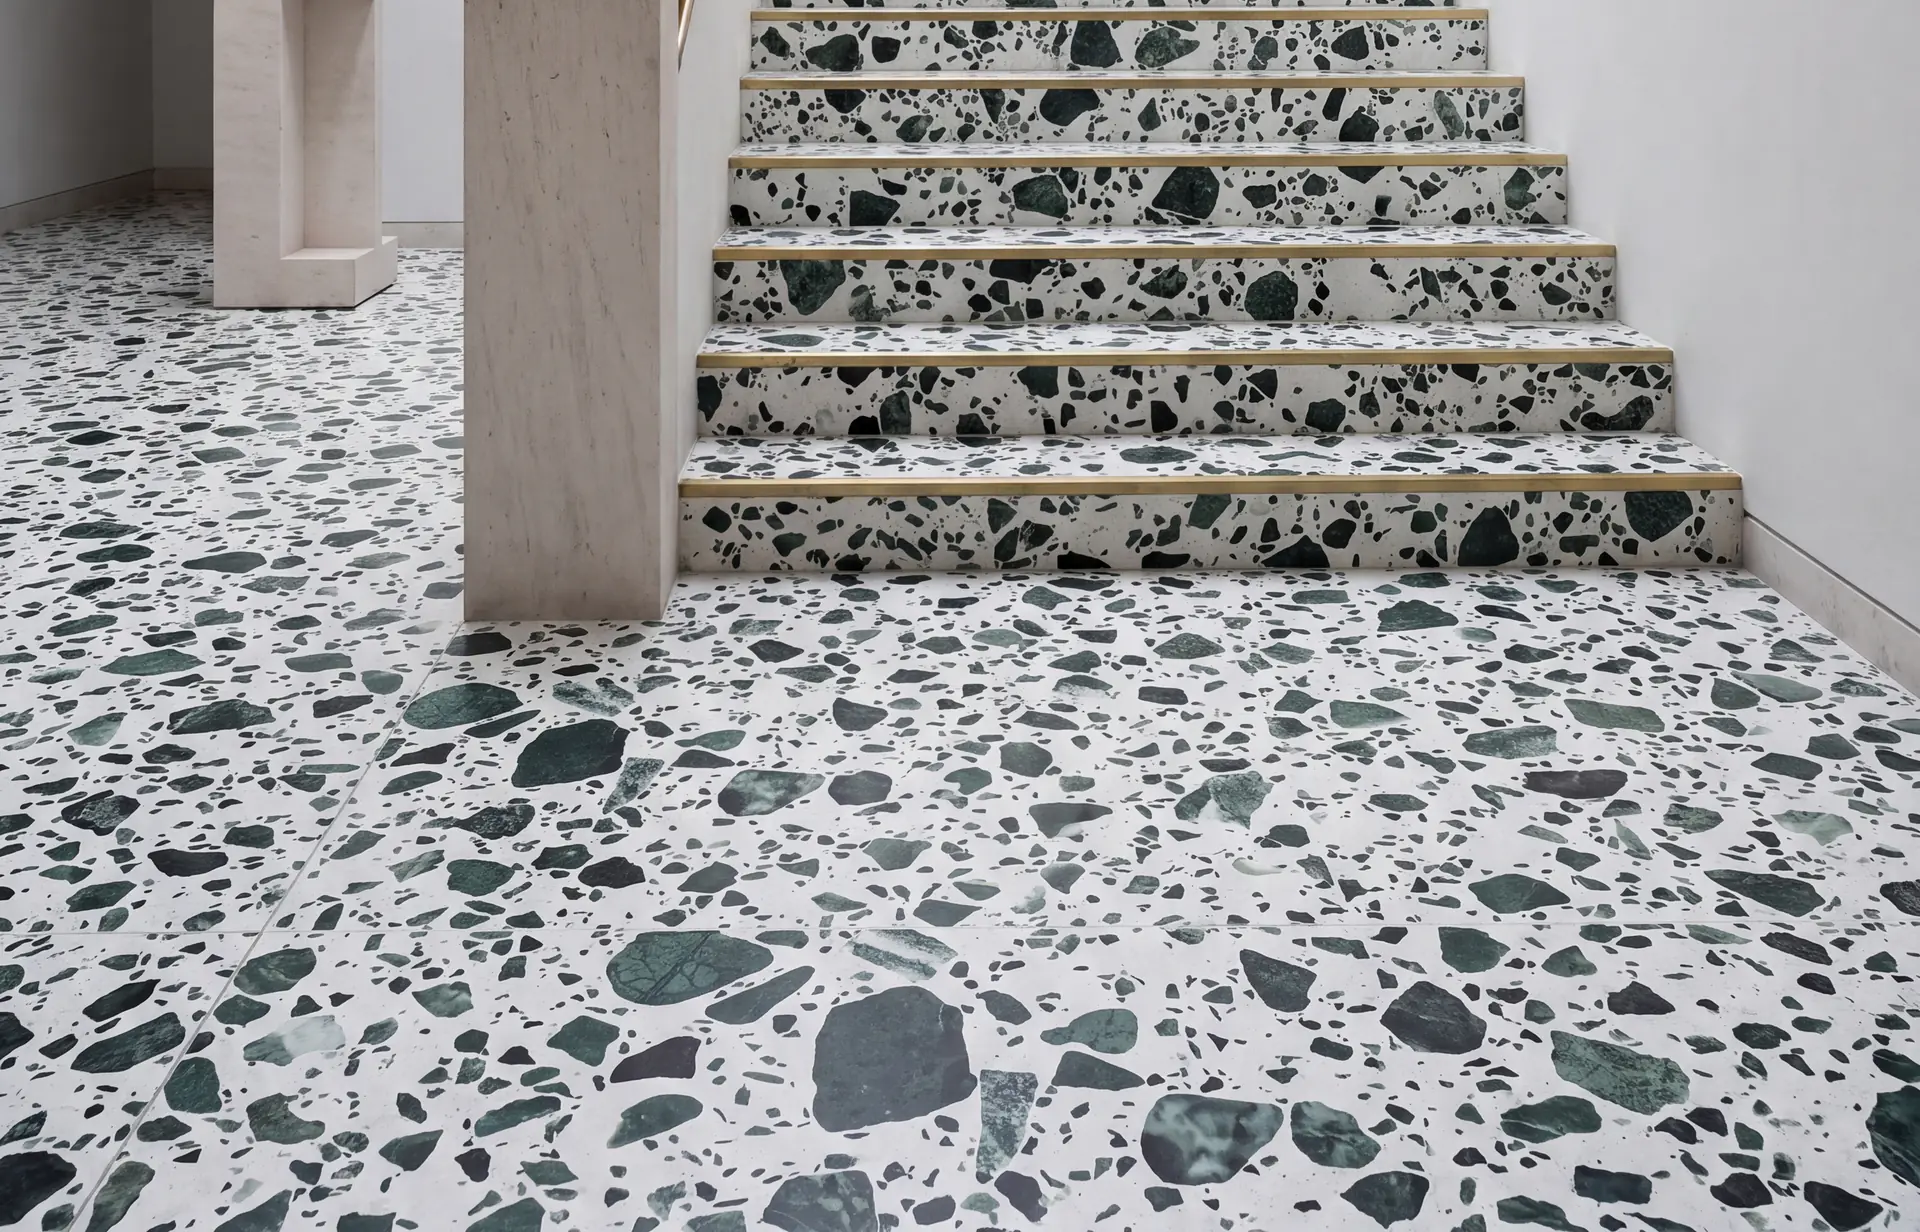
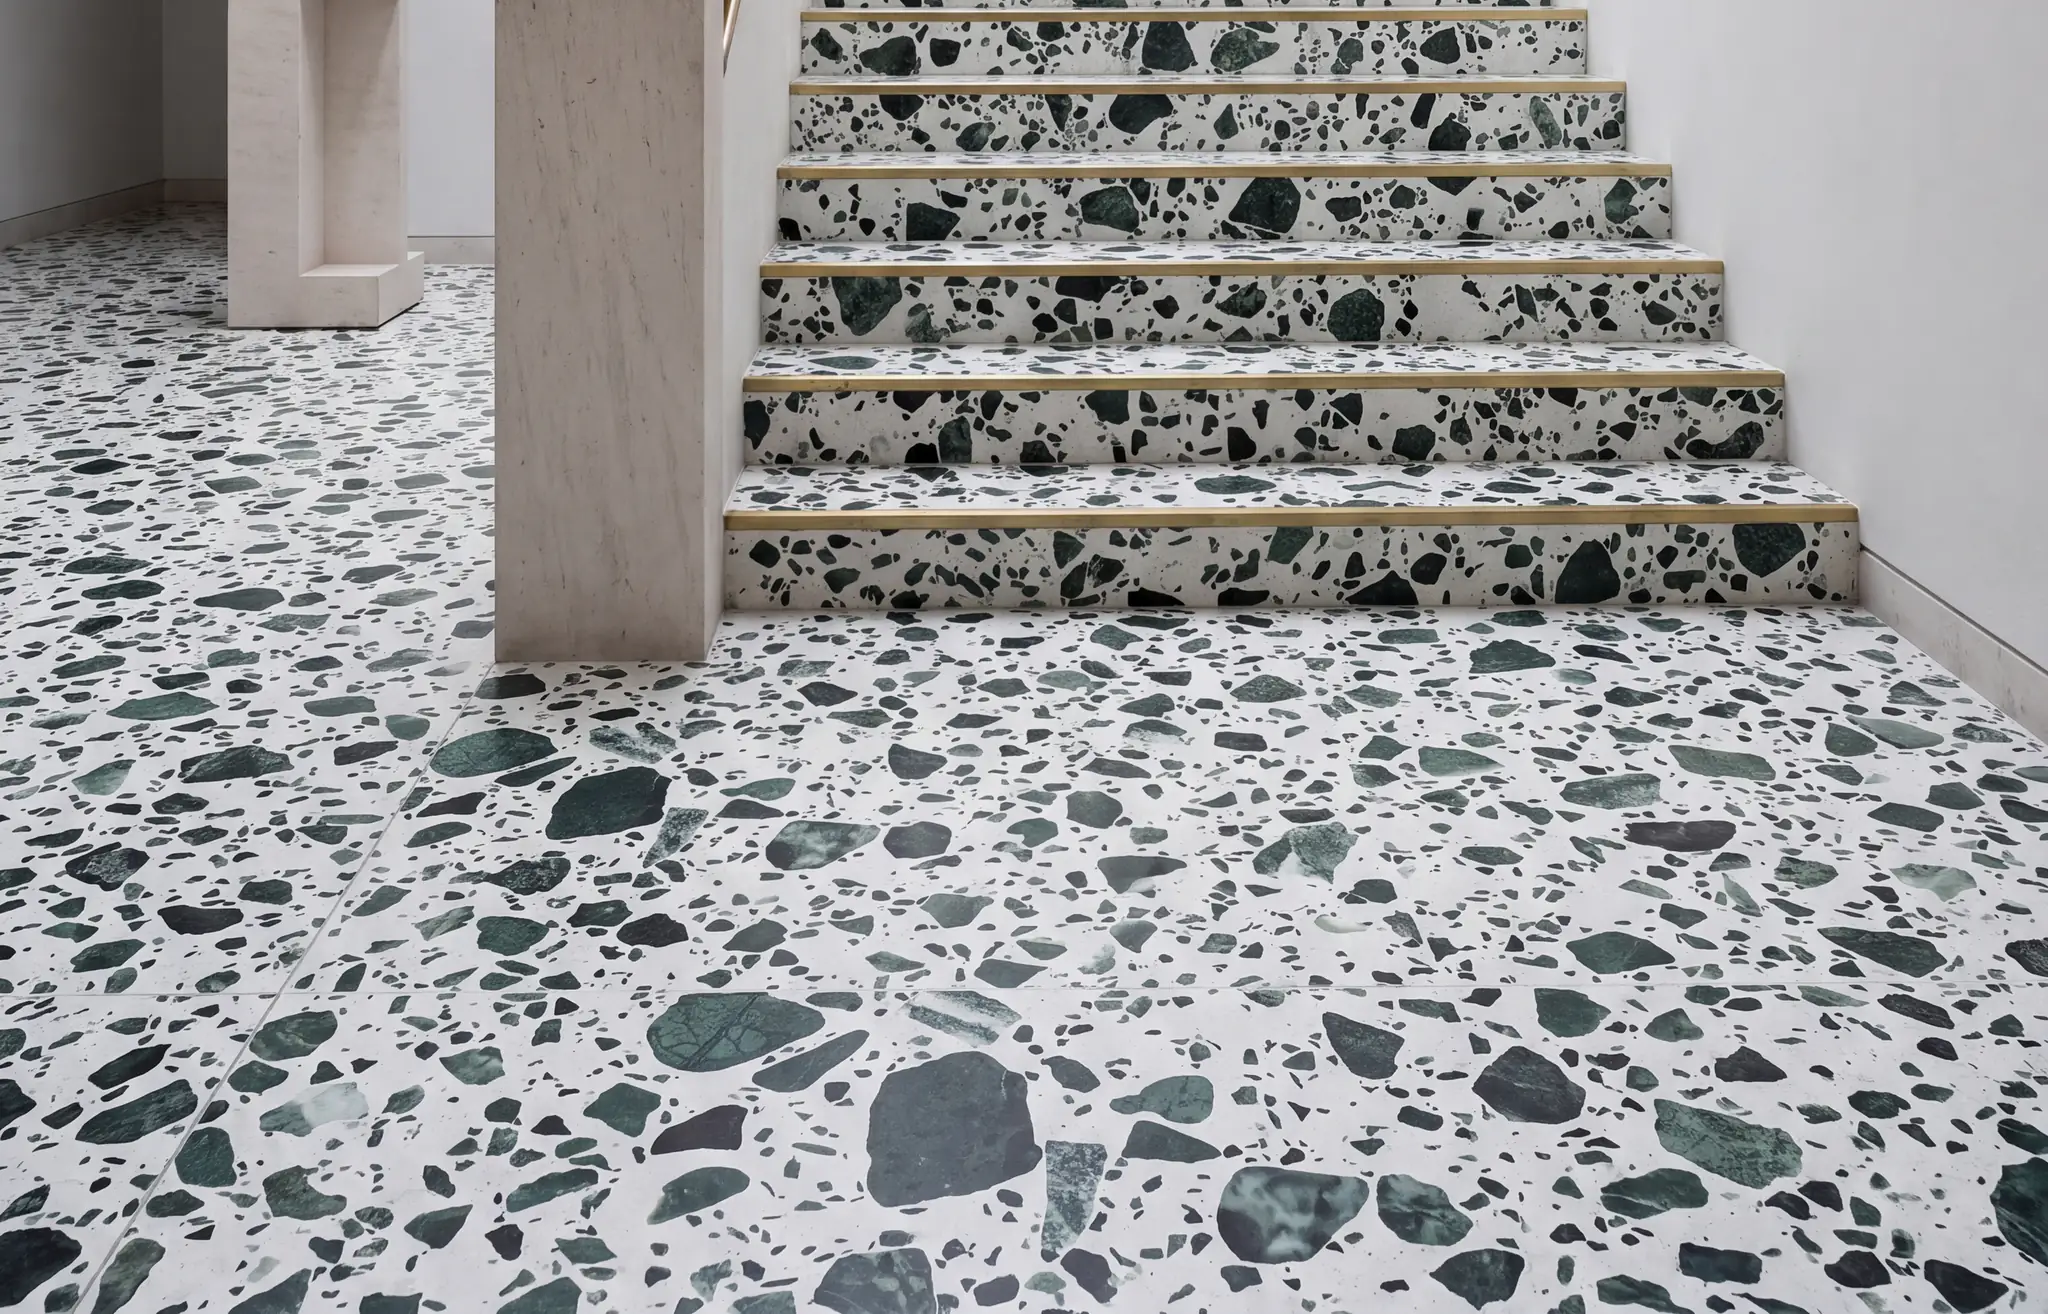
Home: generated 4K ball macros, bigger scenes, Al Sajaa map card
The balls were upscaling the catalogue swatch strips (some only 280px
tall) - each featured shade now gets a generated 4K square macro,
faithful to its swatch reference, cut to a 512px ball derivative
(11-73KB). Scenes rebuilt at 2048x1314 to match Next's srcset bucket at
retina. Two more NSFW false positives on plain slab prompts - reworded
as catalogue photography.

Map card corrections: the location is Al Sajaa, Sharjah (9M62+45M, Al
Jlail - the address already published on the legal pages), coordinates
decoded from the plus code, and siteConfig.address now carries the real
NAP for the org JSON-LD. Second activation of the card (after the first
expands it) opens Google Maps directions from the visitor's current
location to the plus code; the hover hint switches to Click for
directions.

diff --git a/src/components/ui/expand-map.tsx b/src/components/ui/expand-map.tsx
@@ -16,8 +16,10 @@ import { EASE, DURATION } from "@/lib/motion";
 /**
  * LocationMap - the expanding map card (adapted 2026-08-17 from an
  * owner-supplied reference component). Collapsed it is a small card with
- * the location name; a click springs it open into a stylised street map
- * with a pin. Cursor tilt on fine pointers.
+ * the location name; the FIRST activation springs it open into a
+ * stylised street map with a pin, the SECOND opens Google Maps
+ * directions from the visitor's current location (owner spec). Cursor
+ * tilt on fine pointers.
  *
  * House adaptations: imports from "motion/react" (the repo's Motion, NOT
  * framer-motion - same API, no new runtime); every colour maps onto the
@@ -31,6 +33,8 @@ import { EASE, DURATION } from "@/lib/motion";
 interface LocationMapProps {
   location?: string;
   coordinates?: string;
+  /** Google Maps directions URL opened by the second activation. */
+  mapsHref?: string;
   className?: string;
 }
 
@@ -42,8 +46,9 @@ const ACCENT_GLOW_SOFT = "drop-shadow(0 0 4px rgba(111, 143, 120, 0.35))";
 const ACCENT_GLOW = "drop-shadow(0 0 8px rgba(111, 143, 120, 0.6))";
 
 export function LocationMap({
-  location = "Dubai, United Arab Emirates",
-  coordinates = "25.2048° N, 55.2708° E",
+  location = "Al Sajaa, Sharjah, UAE",
+  coordinates = "25.3604° N, 55.6503° E",
+  mapsHref = "https://www.google.com/maps/dir/?api=1&destination=9M62%2B45M%20Sharjah",
   className,
 }: LocationMapProps) {
   const [isHovered, setIsHovered] = useState(false);
@@ -75,23 +80,32 @@ export function LocationMap({
     ? { duration: 0 }
     : { type: "spring" as const, stiffness: 400, damping: 35 };
 
+  /** First activation expands; the second opens Google Maps directions. */
+  const activate = () => {
+    if (isExpanded) {
+      window.open(mapsHref, "_blank", "noopener,noreferrer");
+    } else {
+      setIsExpanded(true);
+    }
+  };
+
   return (
     <motion.div
       ref={containerRef}
       role="button"
       tabIndex={0}
       aria-expanded={isExpanded}
-      aria-label={`Map card for ${location} - activate to ${isExpanded ? "collapse" : "expand"}`}
+      aria-label={`Map card for ${location} - activate to ${isExpanded ? "open Google Maps directions" : "expand the map"}`}
       className={`relative cursor-pointer select-none ${className ?? ""}`}
       style={{ perspective: 1000 }}
       onMouseMove={handleMouseMove}
       onMouseEnter={() => setIsHovered(true)}
       onMouseLeave={handleMouseLeave}
-      onClick={() => setIsExpanded((v) => !v)}
+      onClick={activate}
       onKeyDown={(e) => {
         if (e.key === "Enter" || e.key === " ") {
           e.preventDefault();
-          setIsExpanded((v) => !v);
+          activate();
         }
       }}
     >
@@ -356,18 +370,18 @@ export function LocationMap({
         </div>
       </motion.div>
 
-      {/* Click hint */}
+      {/* Click hint - expand first, directions second */}
       <motion.p
         className="text-warm-black/60 absolute -bottom-6 left-1/2 text-[10px] whitespace-nowrap"
         style={{ x: "-50%" }}
         initial={{ opacity: 0 }}
         animate={{
-          opacity: isHovered && !isExpanded ? 1 : 0,
+          opacity: isHovered ? 1 : 0,
           y: isHovered ? 0 : 4,
         }}
         transition={{ duration: 0.2 }}
       >
-        Click to expand
+        {isExpanded ? "Click for directions" : "Click to expand"}
       </motion.p>
     </motion.div>
   );

diff --git a/src/components/sections/materials-explore.tsx b/src/components/sections/materials-explore.tsx
@@ -181,8 +181,8 @@ export function MaterialsExplore() {
                   )}
                   loading="lazy"
                 />
-                {/* The ball - swatch rendered AT ball size (sharp at retina),
-                    never stretched across the whole panel */}
+                {/* The ball - a generated 4K macro of the shade, rendered AT
+                    ball size so it is sharp at retina */}
                 <span
                   className={cn(
                     "absolute top-1/2 left-1/2 block size-52 -translate-x-1/2 -translate-y-1/2 overflow-hidden rounded-full",
@@ -191,8 +191,8 @@ export function MaterialsExplore() {
                   )}
                 >
                   <Image
-                    src={item.swatch}
-                    alt={`${item.shadeLabel} ${item.label.toLowerCase()} swatch`}
+                    src={item.ball}
+                    alt={`${item.shadeLabel} ${item.label.toLowerCase()} macro`}
                     fill
                     sizes="13rem"
                     quality={90}
@@ -289,8 +289,8 @@ export function MaterialsExplore() {
               </span>
               <span className="border-ink absolute top-4 right-4 block size-16 overflow-hidden rounded-full border">
                 <Image
-                  src={item.swatch}
-                  alt={`${item.shadeLabel} ${item.label.toLowerCase()} swatch`}
+                  src={item.ball}
+                  alt={`${item.shadeLabel} ${item.label.toLowerCase()} macro`}
                   fill
                   sizes="4rem"
                   className="object-cover"

diff --git a/src/config/kalingastone.ts b/src/config/kalingastone.ts
@@ -72,7 +72,8 @@ export type HomeMaterialShowcase = {
   slug: KalingaStoneMaterial["slug"];
   shadeSlug: string;
   shadeLabel: string;
-  swatch: string;
+  /** Generated 4K macro of the shade, cut square for the ball. */
+  ball: string;
   scene: string;
   sceneAlt: string;
 };
@@ -82,7 +83,7 @@ export const homeMaterialsShowcase: HomeMaterialShowcase[] = [
     slug: "quartz",
     shadeSlug: "calacatta-lazza",
     shadeLabel: "Calacatta Lazza",
-    swatch: "/kalingastone/quartz/swatches/calacatta-lazza.webp",
+    ball: "/home/materials/quartz-ball.webp",
     scene: "/home/materials/quartz-scene.webp",
     sceneAlt:
       "Calacatta Lazza quartz kitchen island with a waterfall edge in soft daylight",
@@ -91,7 +92,7 @@ export const homeMaterialsShowcase: HomeMaterialShowcase[] = [
     slug: "marble",
     shadeSlug: "emperador-scuro",
     shadeLabel: "Emperador Scuro",
-    swatch: "/kalingastone/marble/swatches/emperador-scuro.webp",
+    ball: "/home/materials/marble-ball.webp",
     scene: "/home/materials/marble-scene.webp",
     sceneAlt:
       "Emperador Scuro engineered marble vanity wall in a warm bathroom",
@@ -100,7 +101,7 @@ export const homeMaterialsShowcase: HomeMaterialShowcase[] = [
     slug: "terrazzo",
     shadeSlug: "exotic-green",
     shadeLabel: "Exotic Green",
-    swatch: "/kalingastone/terrazzo/swatches/exotic-green.webp",
+    ball: "/home/materials/terrazzo-ball.webp",
     scene: "/home/materials/terrazzo-scene.webp",
     sceneAlt:
       "Exotic Green terrazzo floor with green marble chips in a gallery stair hall",

diff --git a/src/components/sections/showroom-locator.tsx b/src/components/sections/showroom-locator.tsx
@@ -21,12 +21,12 @@ export function ShowroomLocator() {
       <div className="container-gcb flex flex-col items-center text-center">
         <p className="label-gcb text-warm-black/60">Where we are</p>
         <h2 className="font-display text-warm-black mt-3 text-2xl tracking-tight">
-          {siteConfig.address.city}, United Arab Emirates
+          Al Sajaa, {siteConfig.address.city}, United Arab Emirates
         </h2>
         <div className="mt-10 flex h-[320px] w-[360px] items-start justify-center">
           <LocationMap
-            location={`${siteConfig.address.city}, United Arab Emirates`}
-            coordinates="25.2048° N, 55.2708° E"
+            location={`Al Sajaa, ${siteConfig.address.city}, UAE`}
+            coordinates="25.3604° N, 55.6503° E"
           />
         </div>
         <p className="text-warm-black/70 mt-6 max-w-md leading-relaxed">

diff --git a/src/config/site.ts b/src/config/site.ts
@@ -17,9 +17,9 @@ export const siteConfig = {
     whatsapp: "",
   },
   address: {
-    street: "",
-    city: "Dubai",
-    region: "Dubai",
+    street: "9M62+45M, Al Sajaa, Al Jlail",
+    city: "Sharjah",
+    region: "Sharjah",
     postalCode: "",
     country: "AE",
   },
